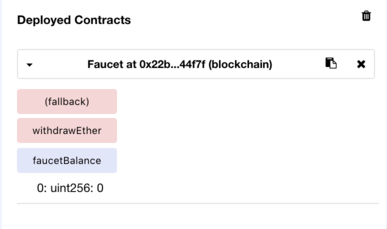
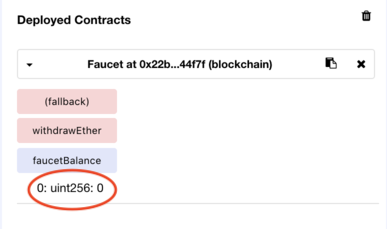
More wording improvements

Changed region(s): [[0.062, 0.7336, 0.3101, 0.9476]]

diff --git a/README.md b/README.md
@@ -92,8 +92,10 @@ Ethereum and later we shall explain how it works.
 
 We will use Remix, an online IDE,
 to compile and deploy the contract. Go to https://remix.ethereum.org/. Close the tab
-called _ballot.sol_. Press on the plus image in the left top corner to add a new file.
-Call it _Faucet.sol_. In the newly created tab copy paste the code from this file:
+called _ballot\_test.sol_. Press on the plus image in the left top corner to add a new 
+file.
+Call it _Faucet.sol_. Don't misspell the name! In the newly created tab copy paste the 
+code from this file:
 [Faucet.sol](Faucet.sol).  Click on _Start to compile_. If compilation succeeds you
 should
 see no errors and your faucet ready to deploy:
@@ -114,7 +116,7 @@ your deployed contract and its deployed address.
 
 ![](img/deployed.png)
 
-Important! If you every need to redeploy a smart contract (e.g., because of a
+Important! If you ever need to redeploy a smart contract (e.g., because of a
 mistake or you changed its source code) remove the old deployed contract from Remix by
 pressing the _X_ button.
 
@@ -133,9 +135,10 @@ Our contract has three functions. Let's start with the last one:
     function() public payable { }
 ```
 
-In Ethereum not only people can own Ether, but also smart contracts. In order for a
+In Ethereum smart contracts can also own Ether, so not only people can own Ether. In 
+order for a
 smart contract to be able to receive Ether it needs to have a function that is marked
-_payable_. So this is all this function does.
+_payable_. So this is all this function does. This function has no name.
 
 The second function is:
 
@@ -160,7 +163,8 @@ This is the function we will use to withdraw Ether from the faucet. You will hav
 implement it later.
 
 ### Interacting with the Faucet contract
-Let us first check contract's Ether balance. For that let's call the `faucetBalance()`
+Let us first check the Ether balance of the contract. For that let's call the 
+`faucetBalance()`
 function. In remix go to your deployed contract and expand it by pressing the arrow
 button. You will see all its functions there. Click on `faucetBalance`. The balance
 should be zero.
@@ -174,11 +178,13 @@ with other people's contracts.
 
 ### The chocolate token
 As we said earlier we tokenized some physical chocolate and we deployed two smart
-contracts on Ethereum so that you can get your chocolate from them.
+contracts on Ethereum so that you can get your chocolate from them. So in this case you
+want to work with those specific contracts instead of deploying them yourself, because 
+the ones you would deploy yourself would not have any chocolate.
 
 The first smart contract is called _ChocolateToken.sol_. It oversees who owns how many
 chocolate tokens. Let's load it in Remix. In Remix add one more file and call it
-_ChocolateToken.sol_. Into it copy paste the code from this file:
+_ChocolateToken.sol_. Don't misspell the name! Into it copy paste the code from this file:
 [ChocolateToken.sol](ChocolateToken.sol). Click _Start to compile_ in the _Compile_ tab.
 
 Now instead of deploying the contract, you will have to load the contract we deployed
@@ -198,7 +204,8 @@ To do that, copy the contract's address by clicking on the copy icon.
 
 Then go to Metamask, click on the _Menu_ button, then _Add Token_, then
 _Custom Token_. In _Token Address_ fill in the address of the chocolate token contract from above.
-In _Token Symbol_ fill in _Chocolate_. Click _Add Token_. You should now see that your
+In _Token Symbol_ fill in _Chocolate_. Click _Next_ and then _Add Token_. You should now 
+see that your
 balance is zero. It will increase as the chocolate master starts handing you tokens in.
 
 ### The chocolate master
@@ -217,8 +224,8 @@ Awesome, the chocolate is up for grabs now! Go get it!
 ### 1. Basic income
 Our chocolate master has been hanging out with his liberal friends and learnt about the
 idea of basic income, so he thought to try it out. The idea of basic income is that the
-government pays every person in the state a basic fixed income, independent of their
-employment status, and the people can work to earn extra money.
+government pays every citizen a fixed basic income, independent of their
+employment status, and the citizen can work to earn extra money.
 
 So to get your basic income chocolate token, call the function `getBasicChocolateIncome()`
 in the chocolate master contract. You should then see in Metamask that you just
@@ -237,7 +244,7 @@ button. You should have two chocolate tokens now.
 As we said earlier, the function `withdrawEther()` from your faucet is not implemented
 yet.
 Implement it such that it transfers some ether to the account calling the function.
-It does not matter how much much Ether you transfer. Make sure though that your facet
+It does not matter how much Ether you transfer. Make sure though that your facet
 has enough ether. If it does not, send it more using Metamask as you did in the
 previous task. Important: implement your method such that it withdraws much less than
 an Ether, so that your faucet does not run out of Ether.
@@ -249,6 +256,7 @@ If it works, one more chocolate token for you.
 
 Important! If you change the code of your contract, don't forget to remove the old
 deployed contract and recompile and redeploy your contract.
+Important! Don't forget to send Ether to your newly deployed faucet contract.
 
 Hints:
 * `msg.sender` is the address of the callee of the function.
@@ -261,9 +269,11 @@ call contracts, too. Add a function to your faucet that calls the function
 `faucetInitiatesWithdraw()` from the chocolate master. It will again try to withdraw
 Ether, so make sure your faucet has Ether.
 
+Important! Don't forget to send Ether to your newly deployed faucet contract.
+
 Hint:
-* when a contract calls another contract, `msg.sender` becomes the caller contract's
-address.
+* when a contract calls another contract, in the code of the called contract 
+`msg.sender` represents the address of the caller contract.
 * take a look at the chocolate master to see how it references the Faucet contract.
 
 ## Chocolate time
